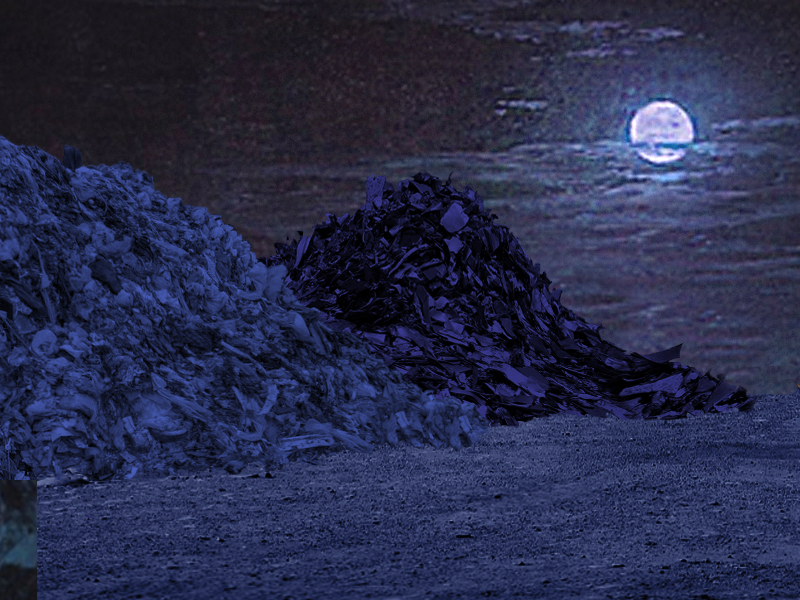
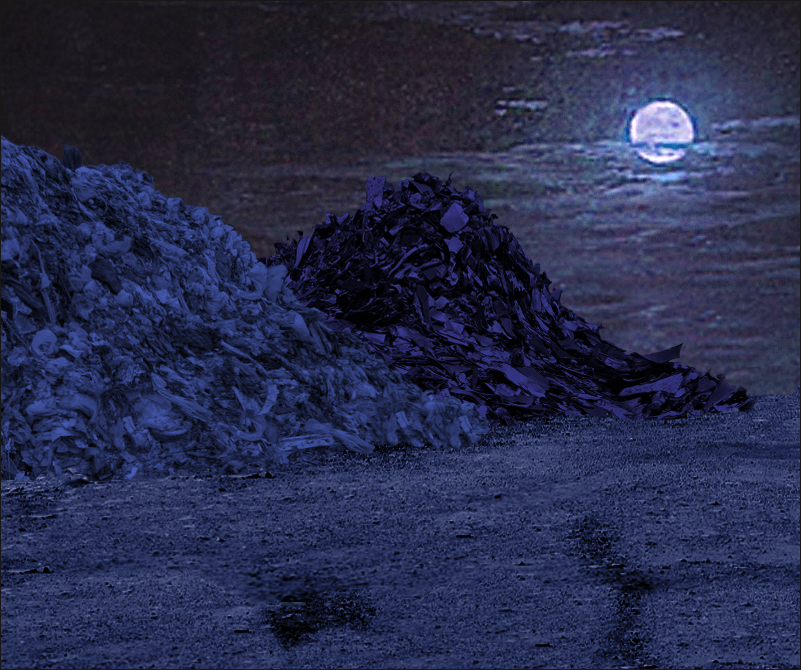
taller bg assets

diff --git a/ad/main.rs b/ad/main.rs
@@ -83,9 +83,9 @@ enum AR {
     Image(&'static str, &'static str, (f32, f32, f32), f32),
 }
 const ANIM_RSC: &'static [AR] = &[
-    AR::Image("bg", "scenes/intro/bg.png", (0., 0., -10.), 1.),
-    AR::Image("pile1", "scenes/intro/pile_1.png", (0., 0., 10.), 1.),
-    AR::Image("pile2", "scenes/intro/pile_2.png", (0., 0., 10.), 1.),
+    AR::Image("bg", "scenes/intro/bg.png", (0., -35., -10.), 1.),
+    AR::Image("pile1", "scenes/intro/pile_1.png", (0., -35., 10.), 1.),
+    AR::Image("pile2", "scenes/intro/pile_2.png", (0., -35., 10.), 1.),
     AR::Sprite(
         "car",
         "car-sheet.png",
@@ -605,6 +605,7 @@ fn setup(
                 scaling_mode: ScalingMode::FixedVertical(WINDOW_HEIGHT),
                 ..default()
             },
+            transform: Transform::from_translation(CAMERA_ZOOM_IN_START_TR),
             ..default()
         },
         MainCamera {},
